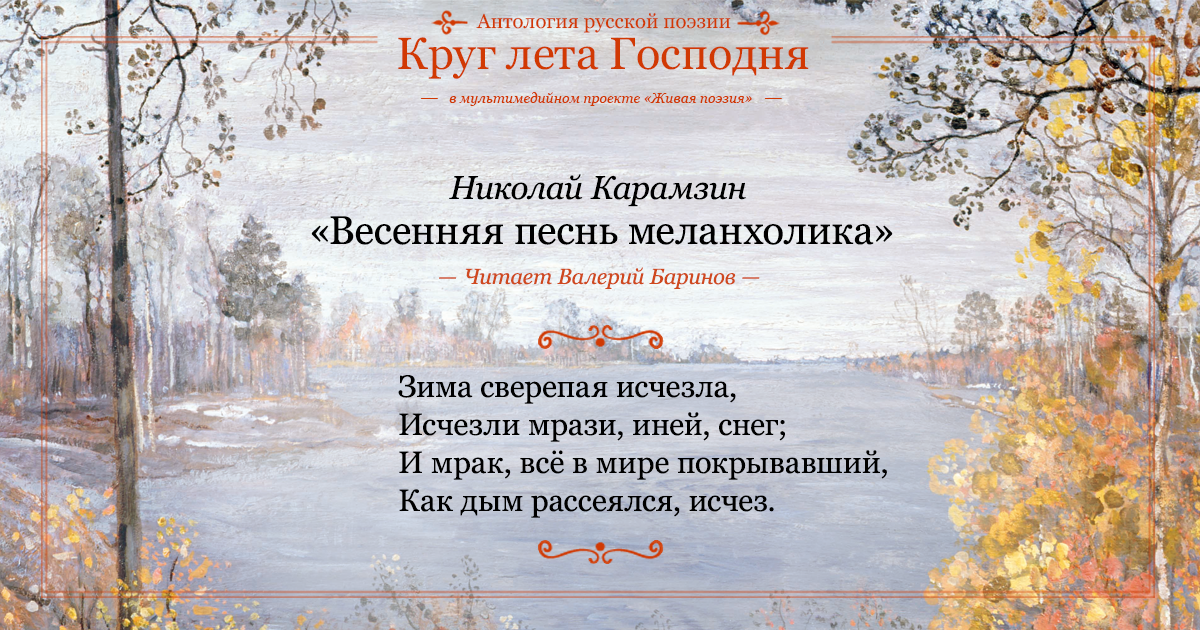
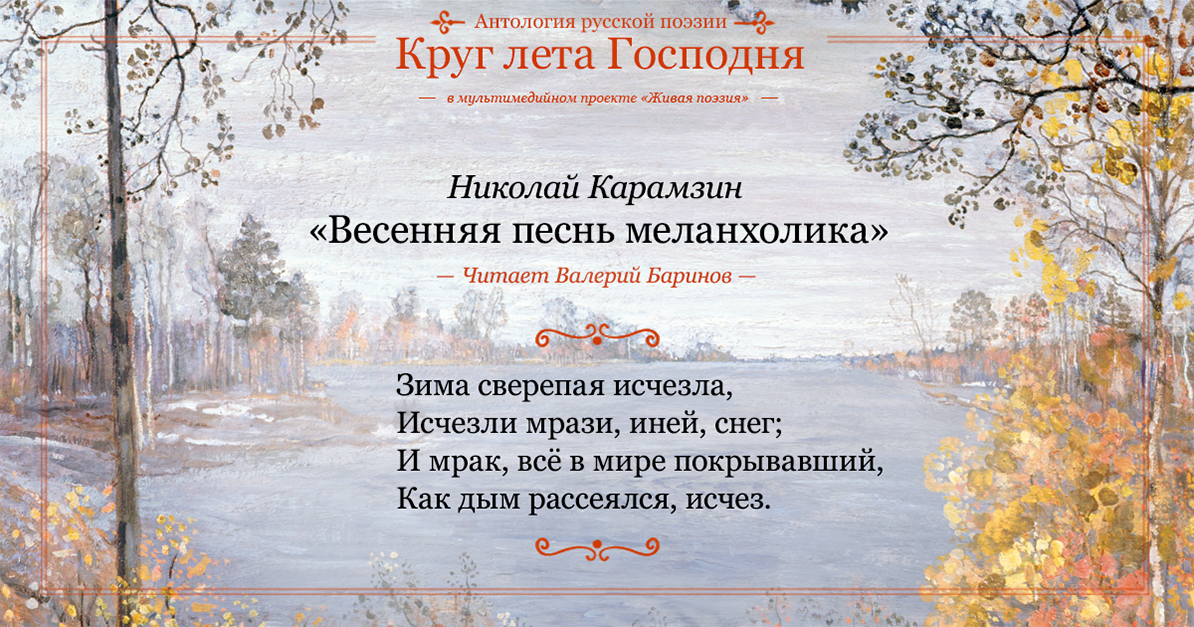
fjhfg

diff --git a/index.html b/index.html
@@ -8,11 +8,11 @@
 <meta property="og:image" content="http://forgio.github.io/Sharing_autumn.png" />
 <meta property="og:image:type" content="image/jpeg" />
 <meta property="og:image:width" content="1200" />
-<meta property="og:image:height" content="630" />
+<meta property="og:image:height" content="627" />
 <meta property="og:image" content="http://forgio.github.io/Sharing_artist.png" />
 <meta property="og:image:type" content="image/jpeg" />
 <meta property="og:image:width" content="1200" />
-<meta property="og:image:height" content="630" />
+<meta property="og:image:height" content="627" />
 
 
 
